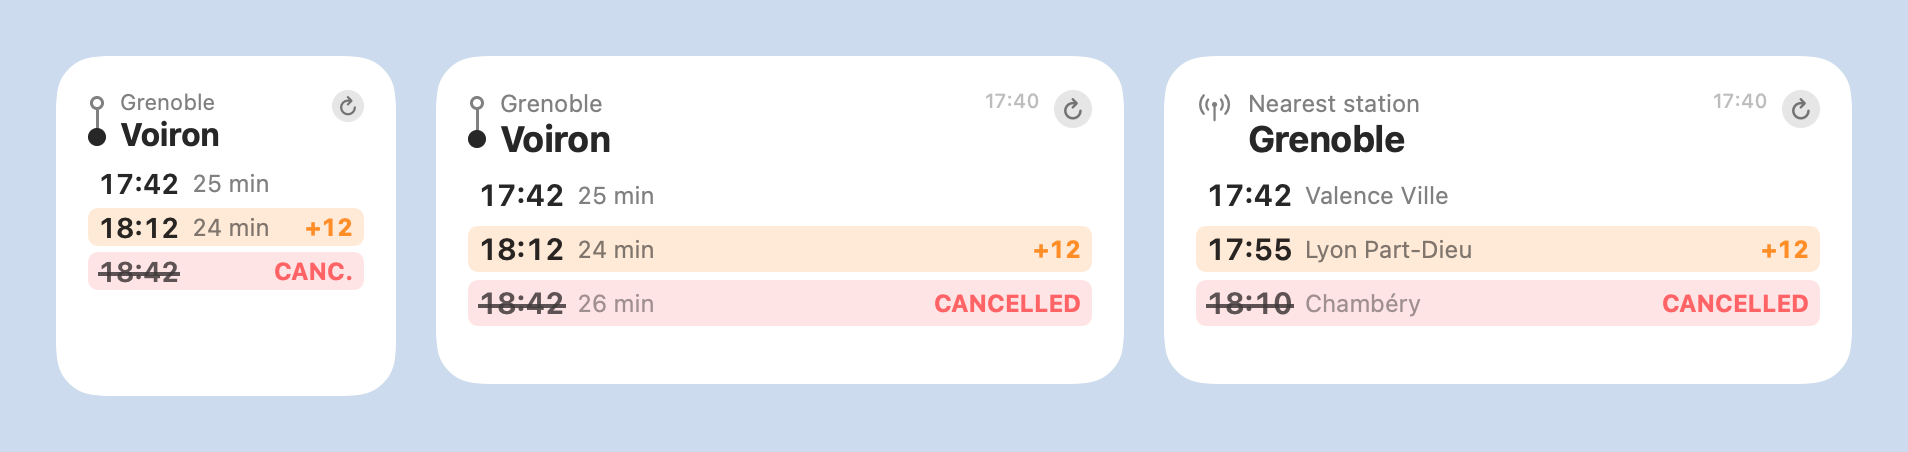
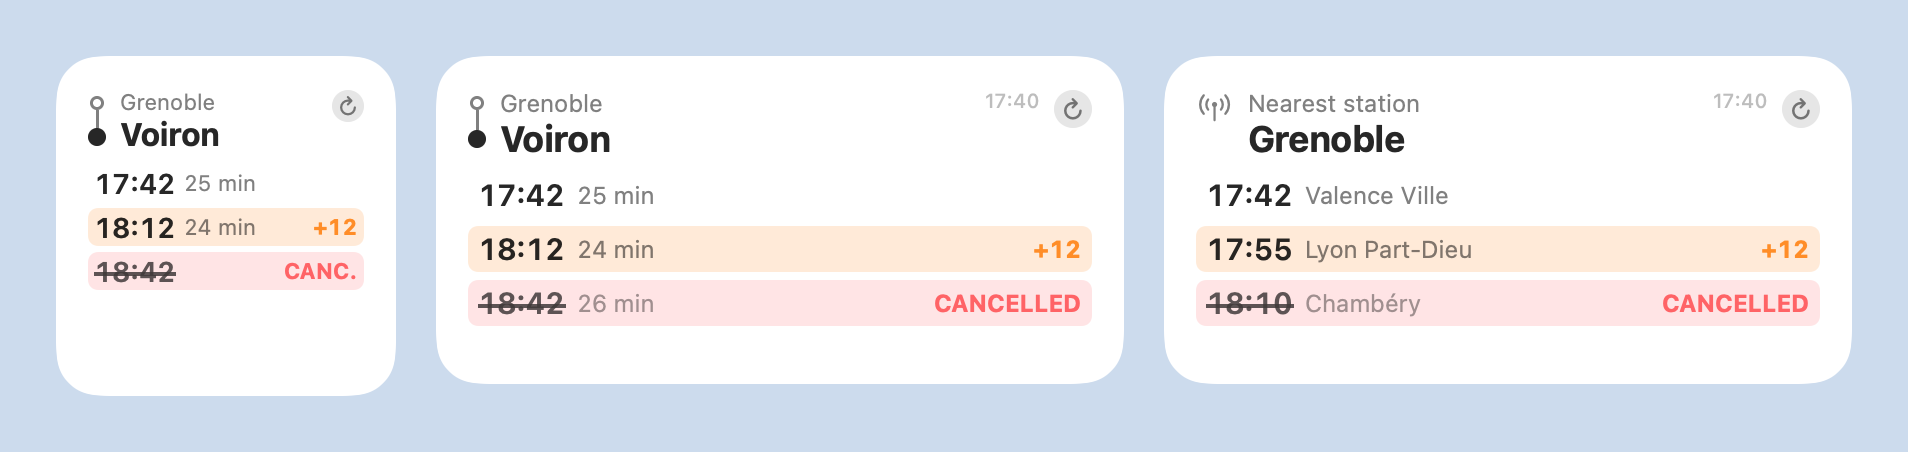
fix: make the widget's location actually arrive
The widget never got a position, while the app did. Two causes, one in the
code and one on the machine.

Reading `CLLocationManager().authorizationStatus` off a throwaway manager is
unreliable: a freshly created manager answers `.notDetermined` until locationd
has replied to it. The status was read that way three times per call, from
three different managers, and the widget regularly concluded it had no
permission and returned without ever asking for a fix. Logging it was what
made it obvious: "status=3 authorized=false" in the same line.

- `LocationFix` in SNCFCore is now one long-lived, observable client per
  process, shared by the widget and the app. Its status is stored and kept up
  to date by the delegate.
- A fix is attempted whatever the status says; the status only names the
  failure afterwards, when it has settled. An explicit refusal still returns
  straight away.
- Asking for the permission is not asking for a position, so the app now takes
  a fix at launch and shows what it found, with a "Find me" button. A silent
  failure is visible, and it leaves the system with something cached.
- The widget waits up to 12 s instead of 5 and falls back to an older fix
  rather than to nothing; stations are kilometres apart and the header says
  how old the data is.
- os.Logger traces on the whole path, since none of this is visible from
  outside an extension: log show --predicate 'subsystem == "trains-near-me"'
[…]

diff --git a/SNCFCore/Sources/SNCFCore/LocationFix.swift b/SNCFCore/Sources/SNCFCore/LocationFix.swift
@@ -1,0 +1,89 @@
+import CoreLocation
+import Observation
+import os
+
+/// One long-lived location client per process, shared by the widget, which needs a fix to pick a
+/// station, and by the host app, which takes one at launch: asking for the permission is not asking
+/// for a position, so without that the system often has nothing cached.
+///
+/// It has to be long-lived. A freshly created `CLLocationManager` answers `.notDetermined` until
+/// locationd has replied to it, so reading the status off a throwaway manager — as this did — makes
+/// an authorized process believe it has no permission. The status is now stored and kept up to date
+/// by the delegate, and a fix is attempted whatever it says: the status only names the failure.
+@MainActor
+@Observable
+public final class LocationFix: NSObject, CLLocationManagerDelegate {
+    public static let shared = LocationFix()
+    /// Read with: log show --last 5m --info --predicate 'subsystem == "trains-near-me"'
+    public static let log = Logger(subsystem: "trains-near-me", category: "location")
+
+    @ObservationIgnored private let manager = CLLocationManager()
+    public private(set) var status: CLAuthorizationStatus
+
+    private override init() {
+        status = manager.authorizationStatus
+        super.init()
+        manager.delegate = self
+        manager.desiredAccuracy = kCLLocationAccuracyKilometer
+    }
+
+    /// macOS only ever grants "always" to a widget; iOS only ever grants "when in use".
+    public var isAuthorized: Bool {
+        #if os(macOS)
+        return status == .authorizedAlways
+        #else
+        return [.authorizedAlways, .authorizedWhenInUse].contains(status)
+        #endif
+    }
+
+    /// Only the host app can ask: an extension cannot show the prompt.
+    public func requestAuthorization() { manager.requestWhenInUseAuthorization() }
+
+    /// The system's cached fix while it is fresh enough, otherwise a live one. A widget gets about
+    /// 30 s to build its timeline and a cold fix over Wi-Fi regularly needs ten of them, so the wait
+    /// is long enough to succeed and short enough to leave time for the SNCF request.
+    public func current(cachedWithin: TimeInterval = 15 * 60, timeout: TimeInterval = 12) async -> CLLocation? {
+        let process = ProcessInfo.processInfo.processName
+        // A refusal is the one status worth trusting early: locationd never reports it by mistake.
+        if status == .denied || status == .restricted {
+            Self.log.notice("\(process, privacy: .public): refused, status=\(self.status.rawValue, privacy: .public)")
+            return nil
+        }
+        if let cached = manager.location, cached.timestamp.timeIntervalSinceNow > -cachedWithin {
+            Self.log.notice("\(process, privacy: .public): cached fix, \(Int(-cached.timestamp.timeIntervalSinceNow), privacy: .public)s old")
+            return cached
+        }
+
+        let started = Date.now
+        let live = await withTaskGroup(of: CLLocation?.self) { group in
+            group.addTask {
+                let updates = CLLocationUpdate.liveUpdates()
+                return try? await updates.first { $0.location != nil }?.location
+            }
+            group.addTask {
+                try? await Task.sleep(for: .seconds(timeout))
+                return nil
+            }
+            let first = await group.next() ?? nil
+            group.cancelAll()
+            return first
+        }
+        let fallback = manager.location
+        Self.log.notice("""
+            \(process, privacy: .public): status=\(self.status.rawValue, privacy: .public) \
+            live=\(live != nil, privacy: .public) after \(Int(-started.timeIntervalSinceNow), privacy: .public)s \
+            stale=\(fallback != nil, privacy: .public)
+            """)
+        // Rather an old fix than none: stations are kilometres apart, and the widget shows the time
+        // of its last update anyway.
+        return live ?? fallback
+    }
+
+    nonisolated public func locationManagerDidChangeAuthorization(_ manager: CLLocationManager) {
+        let granted = manager.authorizationStatus
+        Task { @MainActor in
+            status = granted
+            Self.log.notice("\(ProcessInfo.processInfo.processName, privacy: .public): status now \(granted.rawValue, privacy: .public)")
+        }
+    }
+}

diff --git a/App/TrainsNearMeApp.swift b/App/TrainsNearMeApp.swift
@@ -21,7 +21,8 @@ struct TrainsNearMeApp: App {
 struct SettingsView: View {
     @State private var token = SharedSettings.token ?? ""
     @State private var tokenStatus = ""
-    @State private var location = LocationPermission()
+    @State private var location = LocationFix.shared
+    @State private var fix: String?
 
     var body: some View {
         Form {
@@ -44,23 +45,55 @@ struct SettingsView: View {
                     .foregroundStyle(.secondary)
                 #endif
             }
-            Section("Location (optional, for “Depart from nearest station”)") {
+            Section("Location (needed by Radar, optional for Trip)") {
                 HStack {
-                    Text(location.description).foregroundStyle(.secondary)
+                    Text(summary).foregroundStyle(.secondary)
                     Spacer()
                     if location.status == .notDetermined {
-                        Button("Allow") { location.request() }
+                        Button("Allow") { location.requestAuthorization() }
+                    } else {
+                        Button("Find me") { Task { await probe() } }
                     }
+                }
+                if let fix {
+                    Text(fix).font(.caption).foregroundStyle(.secondary)
                 }
             }
         }
         .formStyle(.grouped)
-        .onAppear {
+        .task {
             // The widget cannot show a permission prompt itself; without this it silently uses the configured order.
-            if location.status == .notDetermined { location.request() }
-            // The system only hands the widget a location fix while the app is active, so refresh it now.
+            if location.status == .notDetermined { location.requestAuthorization() }
+            // Taking a fix here is what makes the widget's own attempt cheap: the permission alone
+            // leaves the system with nothing cached, and a widget has no time to start from cold.
+            await probe()
             WidgetCenter.shared.reloadAllTimelines()
         }
+    }
+
+    private var summary: String {
+        switch location.status {
+        case .authorizedAlways: "Allowed"
+        #if !os(macOS)
+        case .authorizedWhenInUse: "Allowed"
+        #endif
+        case .denied, .restricted: "Denied — enable Location Services for Trains near me in Settings"
+        default: "Not requested"
+        }
+    }
+
+    /// Shows what the system really hands over, so a silent failure stays visible.
+    private func probe() async {
+        fix = "Looking for your position…"
+        guard let location = await LocationFix.shared.current() else {
+            fix = "No position: the system returned none. Check that Location Services is on."
+            return
+        }
+        let minutes = Int(-location.timestamp.timeIntervalSinceNow / 60)
+        fix = String(format: "Found: %.3f, %.3f (%@) — that is what Radar sends to SNCF.",
+                     location.coordinate.latitude, location.coordinate.longitude,
+                     minutes < 1 ? "just now" : "\(minutes) min ago")
+        WidgetCenter.shared.reloadAllTimelines()
     }
 
     private func save() async {
@@ -73,35 +106,5 @@ struct SettingsView: View {
             tokenStatus = error == .unauthorized ? "Token rejected." : "Saved, but the SNCF API could not be reached."
         }
         WidgetCenter.shared.reloadAllTimelines()
-    }
-}
-
-@Observable
-final class LocationPermission: NSObject, CLLocationManagerDelegate {
-    private let manager = CLLocationManager()
-    var status: CLAuthorizationStatus
-
-    override init() {
-        status = manager.authorizationStatus
-        super.init()
-        manager.delegate = self
-    }
-
-    func request() { manager.requestWhenInUseAuthorization() }
-
-    func locationManagerDidChangeAuthorization(_ manager: CLLocationManager) {
-        status = manager.authorizationStatus
-        WidgetCenter.shared.reloadAllTimelines()
-    }
-
-    override var description: String {
-        switch status {
-        case .authorizedAlways: "Allowed"
-        #if !os(macOS)
-        case .authorizedWhenInUse: "Allowed"
-        #endif
-        case .denied, .restricted: "Denied — enable Location Services for Trains near me in Settings"
-        default: "Not requested"
-        }
     }
 }

diff --git a/Widget/DeparturesWidget.swift b/Widget/DeparturesWidget.swift
@@ -339,28 +339,34 @@ struct DepartureRow: View {
     let compact: Bool
 
     var body: some View {
-        HStack(spacing: 6) {
+        // On the small widget a delay badge leaves little room, and "25 min" used to wrap
+        // onto a second line, so the middle column shrinks rather than wraps.
+        HStack(spacing: compact ? 4 : 6) {
             Text(train.scheduledDeparture, format: .dateTime.hour().minute())
                 .font(.system(size: compact ? 14 : 15, weight: .semibold).monospacedDigit())
                 .strikethrough(train.isCancelled)
+                .fixedSize()
             if !compact || !train.isCancelled {
                 // A journey knows how long it takes; a station board knows where the train goes.
                 if let duration = train.duration {
                     Text("\(Int(duration / 60)) min")
-                        .font(.system(size: 12).monospacedDigit())
-                        .foregroundStyle(.secondary)
-                } else if let direction = train.direction {
-                    Text(direction)
-                        .font(.system(size: 12))
+                        .font(.system(size: compact ? 11 : 12).monospacedDigit())
                         .foregroundStyle(.secondary)
                         .lineLimit(1)
+                        .minimumScaleFactor(0.75)
+                } else if let direction = train.direction {
+                    Text(direction)
+                        .font(.system(size: compact ? 11 : 12))
+                        .foregroundStyle(.secondary)
+                        .lineLimit(1)
+                        .minimumScaleFactor(0.75)
                         .truncationMode(.tail)
                 }
             }
             Spacer(minLength: 2)
             badge
         }
-        .padding(.horizontal, 5)
+        .padding(.horizontal, compact ? 3 : 5)
         .padding(.vertical, compact ? 1 : 2)
         .background(tint.opacity(0.18), in: RoundedRectangle(cornerRadius: 5))
         .opacity(train.isCancelled ? 0.75 : 1)
@@ -380,7 +386,11 @@ struct DepartureRow: View {
     }
 
     private func label(_ text: String, _ color: Color) -> some View {
-        Text(text).font(.system(size: 12, weight: .bold).monospacedDigit()).foregroundStyle(color)
+        Text(text)
+            .font(.system(size: compact ? 11 : 12, weight: .bold).monospacedDigit())
+            .foregroundStyle(color)
+            .lineLimit(1)
+            .fixedSize()
     }
 
     private var tint: Color {

diff --git a/Widget/Provider.swift b/Widget/Provider.swift
@@ -131,31 +131,11 @@ func makeTimeline(_ entry: DeparturesEntry, now: Date, flip: Date?) -> Timeline<
     return Timeline(entries: entries, policy: .after(reload))
 }
 
-/// One coarse fix, used to pick a station; only a position rounded to ~100 m ever reaches SNCF.
+/// A fix is always attempted; the authorization only names the failure, because it is only
+/// trustworthy once locationd has answered this process.
 func currentLocation() async -> Result<CLLocation, LocationIssue> {
-    let manager = CLLocationManager()
-    // macOS only ever reports "always" for a widget; iOS only ever reports "when in use".
-    #if os(macOS)
-    let allowed: [CLAuthorizationStatus] = [.authorizedAlways]
-    #else
-    let allowed: [CLAuthorizationStatus] = [.authorizedAlways, .authorizedWhenInUse]
-    #endif
-    guard allowed.contains(manager.authorizationStatus) else { return .failure(.notAuthorized) }
-    if let cached = manager.location, cached.timestamp.timeIntervalSinceNow > -15 * 60 { return .success(cached) }
-    let fix = await withTaskGroup(of: CLLocation?.self) { group in
-        group.addTask {
-            let updates = CLLocationUpdate.liveUpdates()
-            return try? await updates.first { $0.location != nil }?.location
-        }
-        group.addTask {
-            try? await Task.sleep(for: .seconds(5))
-            return nil
-        }
-        let first = await group.next() ?? nil
-        group.cancelAll()
-        return first
-    }
-    return fix.map { .success($0) } ?? .failure(.unavailable)
+    if let fix = await LocationFix.shared.current() { return .success(fix) }
+    return .failure(await LocationFix.shared.isAuthorized ? .unavailable : .notAuthorized)
 }
 
 extension DeparturesEntry {

diff --git a/CHANGELOG.md b/CHANGELOG.md
@@ -11,6 +11,11 @@ All notable changes to this project are documented here. The format follows [Kee
 - `scripts/render-screenshots.sh` regenerates the README, guide and social images from the real widget views.
 - Issue and pull request templates, contributing guide.
 
+### Fixed
+- The widget never got a position. Reading `CLLocationManager().authorizationStatus` off a throwaway manager answers `.notDetermined` until locationd replies, so an authorized widget decided it had no permission and gave up without asking. There is now one long-lived location client per process, the status is kept by its delegate, and a fix is attempted whatever the status says — it only names the failure.
+- Asking for the permission is not asking for a position either, so the system often had nothing cached and the widget's attempt started from cold. The host app now takes a fix at launch and shows what it found, and the widget waits up to 12 s, falling back to an older fix rather than to nothing.
+- On the small widget a row with a delay badge wrapped onto two lines; the middle column now shrinks instead.
+
 ### Changed
 - A refresh button in each widget's header, which fetches immediately instead of waiting for the system's next reload.
 - Reloads are now asked for 5 min before the next train instead of every 15 min, bounded by a 20-minute floor and a 60-minute ceiling, with a single reload booked for the night. The daily WidgetKit budget is spent when a delay can actually appear.

diff --git a/README.md b/README.md
@@ -158,6 +158,7 @@ The 38 tests make no live API calls. They cover:
 | Station search fails with error `0` (token missing) | The app and the widget were signed with different teams, so they use different App Groups | Set `DEVELOPMENT_TEAM` in `Config/Local.xcconfig` only, so both targets get the same team |
 | The location prompt never appears; the app stays at "Not requested" | macOS remembers an earlier signing identity for that bundle id | Change `BUNDLE_ID_PREFIX` |
 | On iPhone, "Add your SNCF API token…" | A free Apple account cannot share an App Group on iOS | Set `SNCF_TOKEN` in `Config/Local.xcconfig` and build again |
+| The widget shows an old build, or stops getting a location | `xcodebuild` registers its product in LaunchServices, so a copy in DerivedData competes with the installed one — and that copy has its own bundle id, hence no location permission | `lsregister -u <path to the DerivedData app>`, delete that build, then `lsregister -f "/Applications/Trains near me.app"`. Pass `-derivedDataPath` somewhere disposable when building by hand |
 | The widget has no **Edit** option | Xcode's debug dylib hides the App Intent from the system | Keep `ENABLE_DEBUG_DYLIB: NO` in `project.yml` |
 
 ## Screenshots
